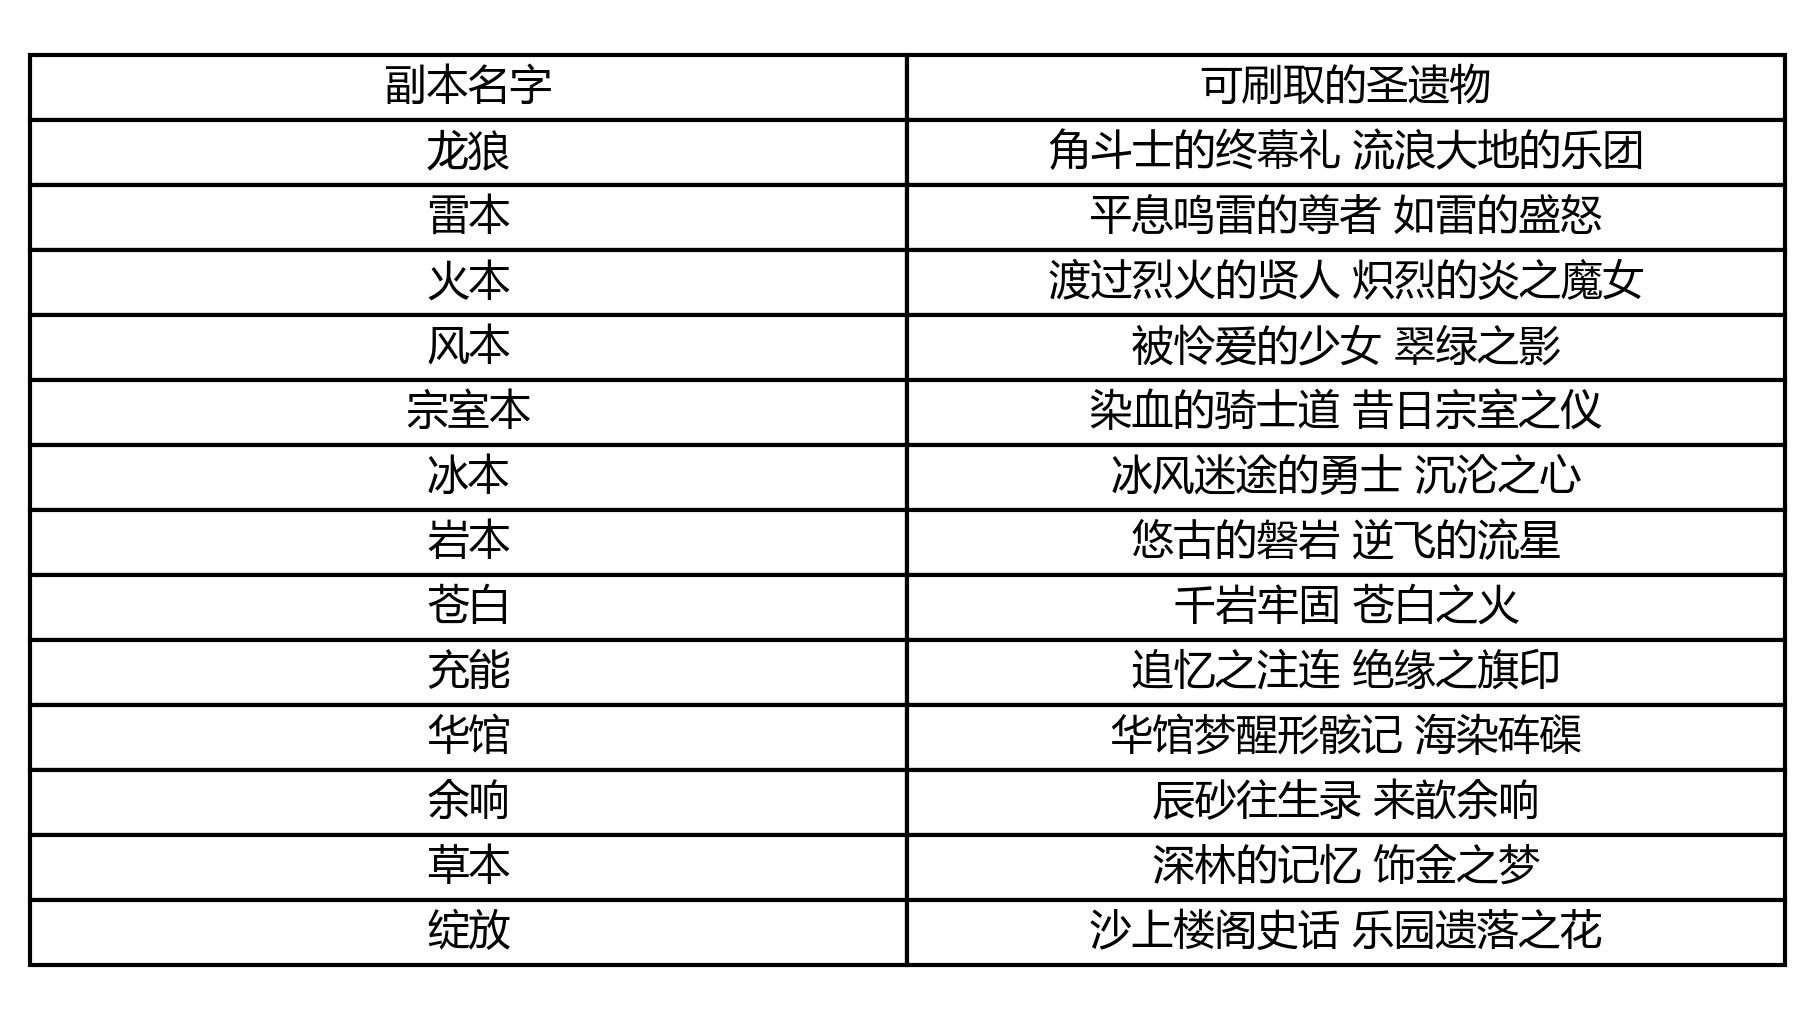
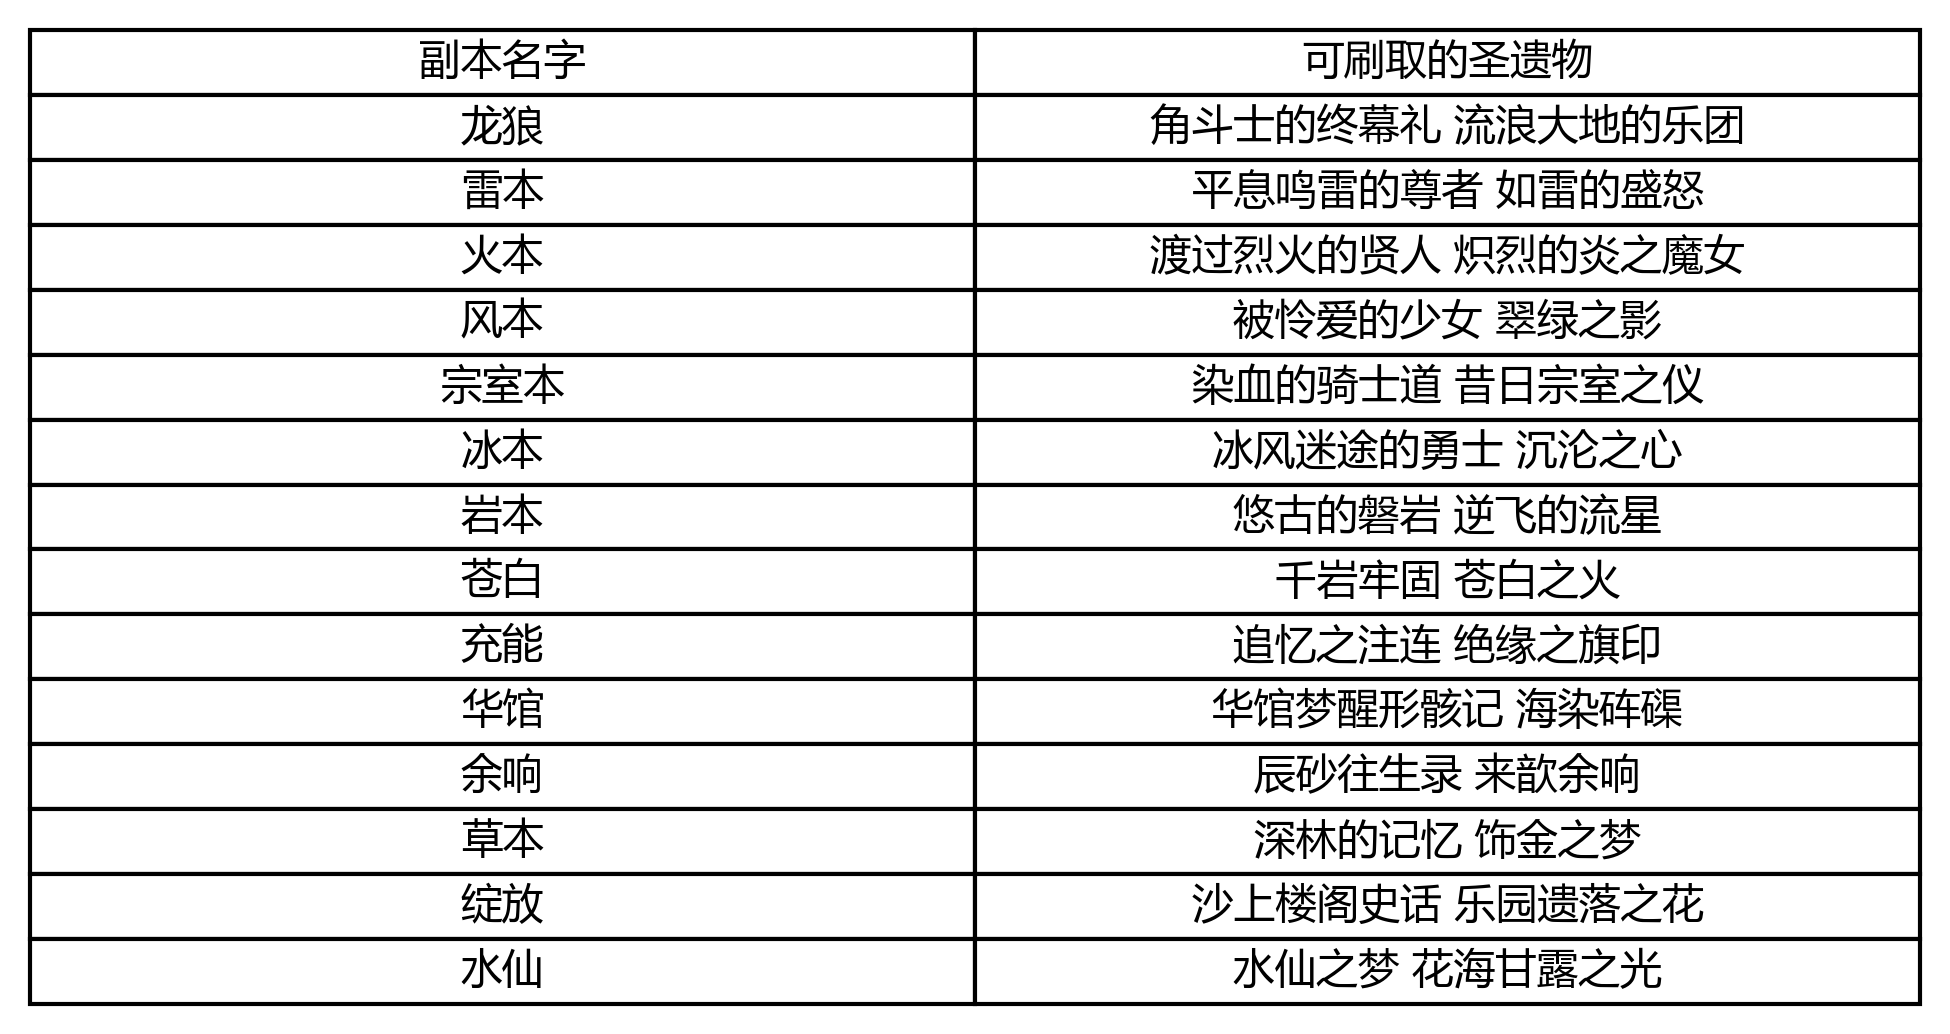
更新3.6

Changed region(s): [[0.0, 0.0, 0.9873, 0.9725]]

diff --git a/__init__.py b/__init__.py
@@ -88,6 +88,8 @@ async def get_artifact_(bot: Bot, event: MessageEvent):
         obtain = "草本"
     if re.match(r"^散兵|花神|绽放(?:本)", obtain):
         obtain = "绽放"
+    if re.match(r"^花海|水仙|甘露(?:本)", obtain):
+        obtain = "水仙"
     if not (obtain in artifact_obtain.keys()):
         mes = f"没有副本名叫 {obtain} ,发送 原神副本 可查看所有副本"
         await get_artifact.finish(mes, at_sender=True)
